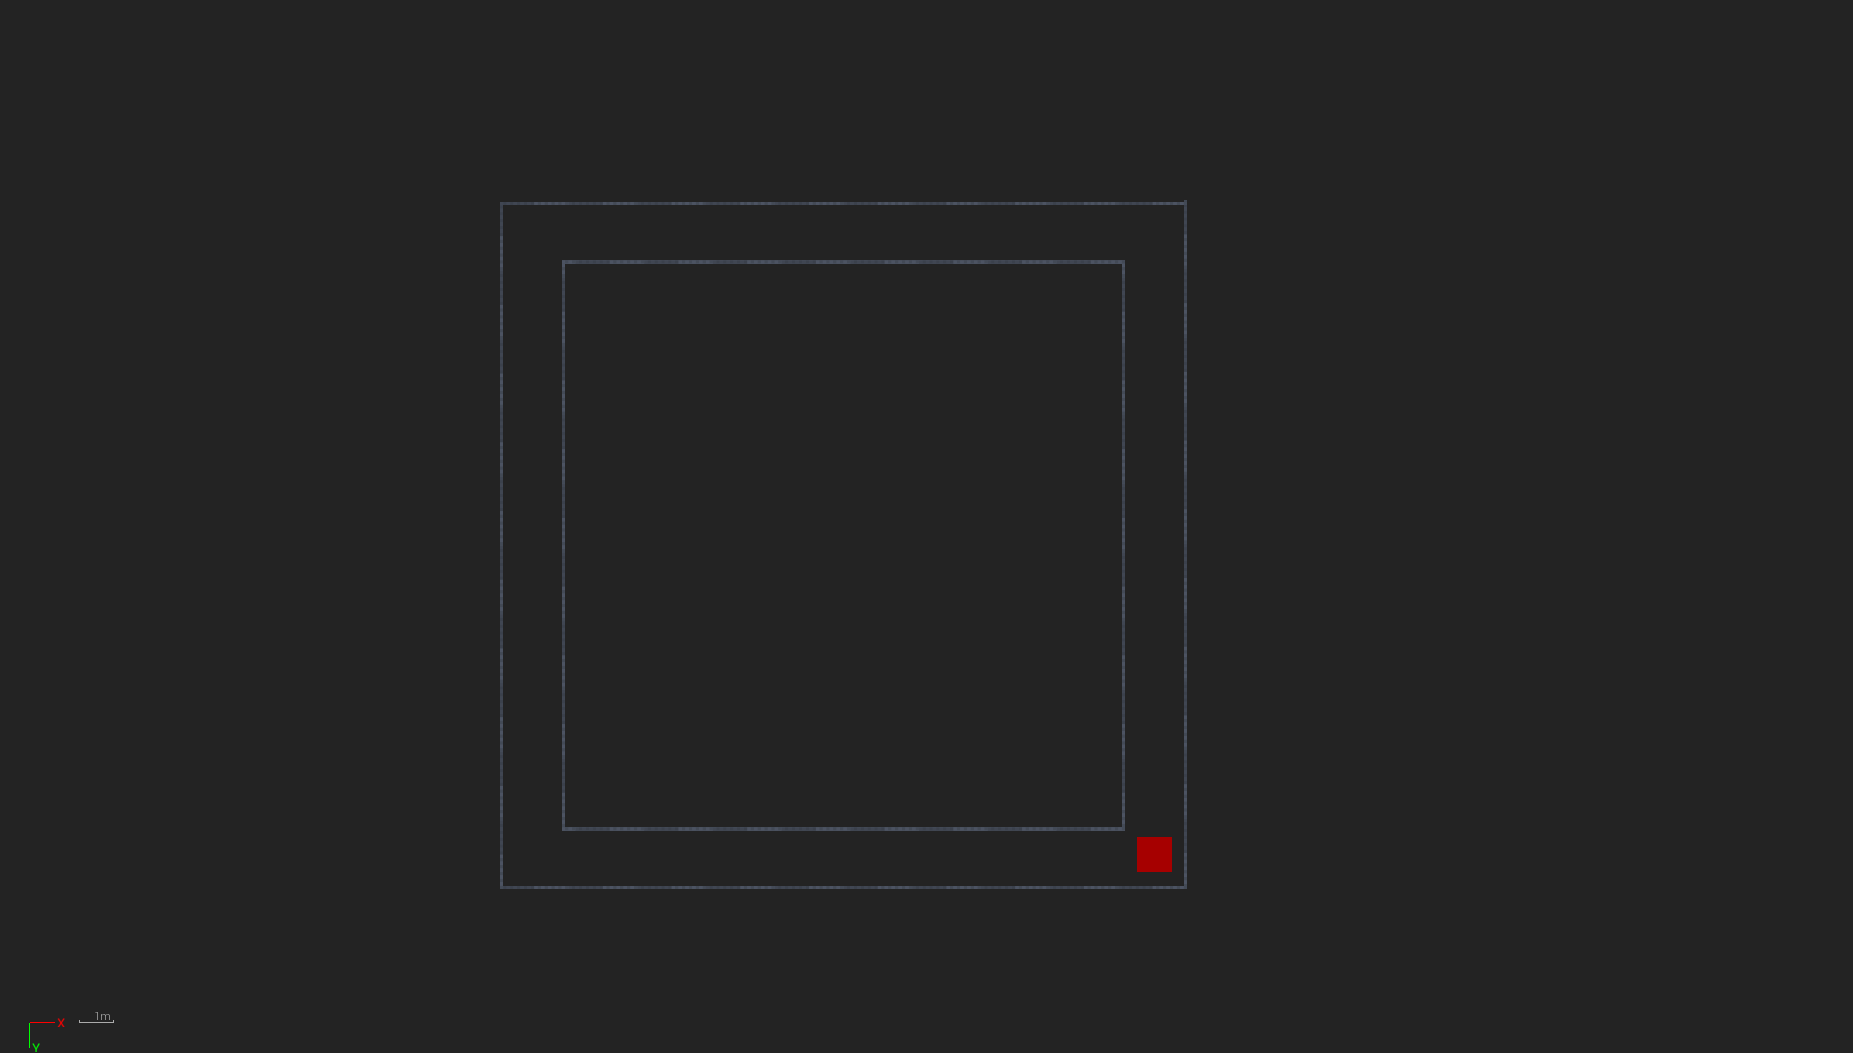
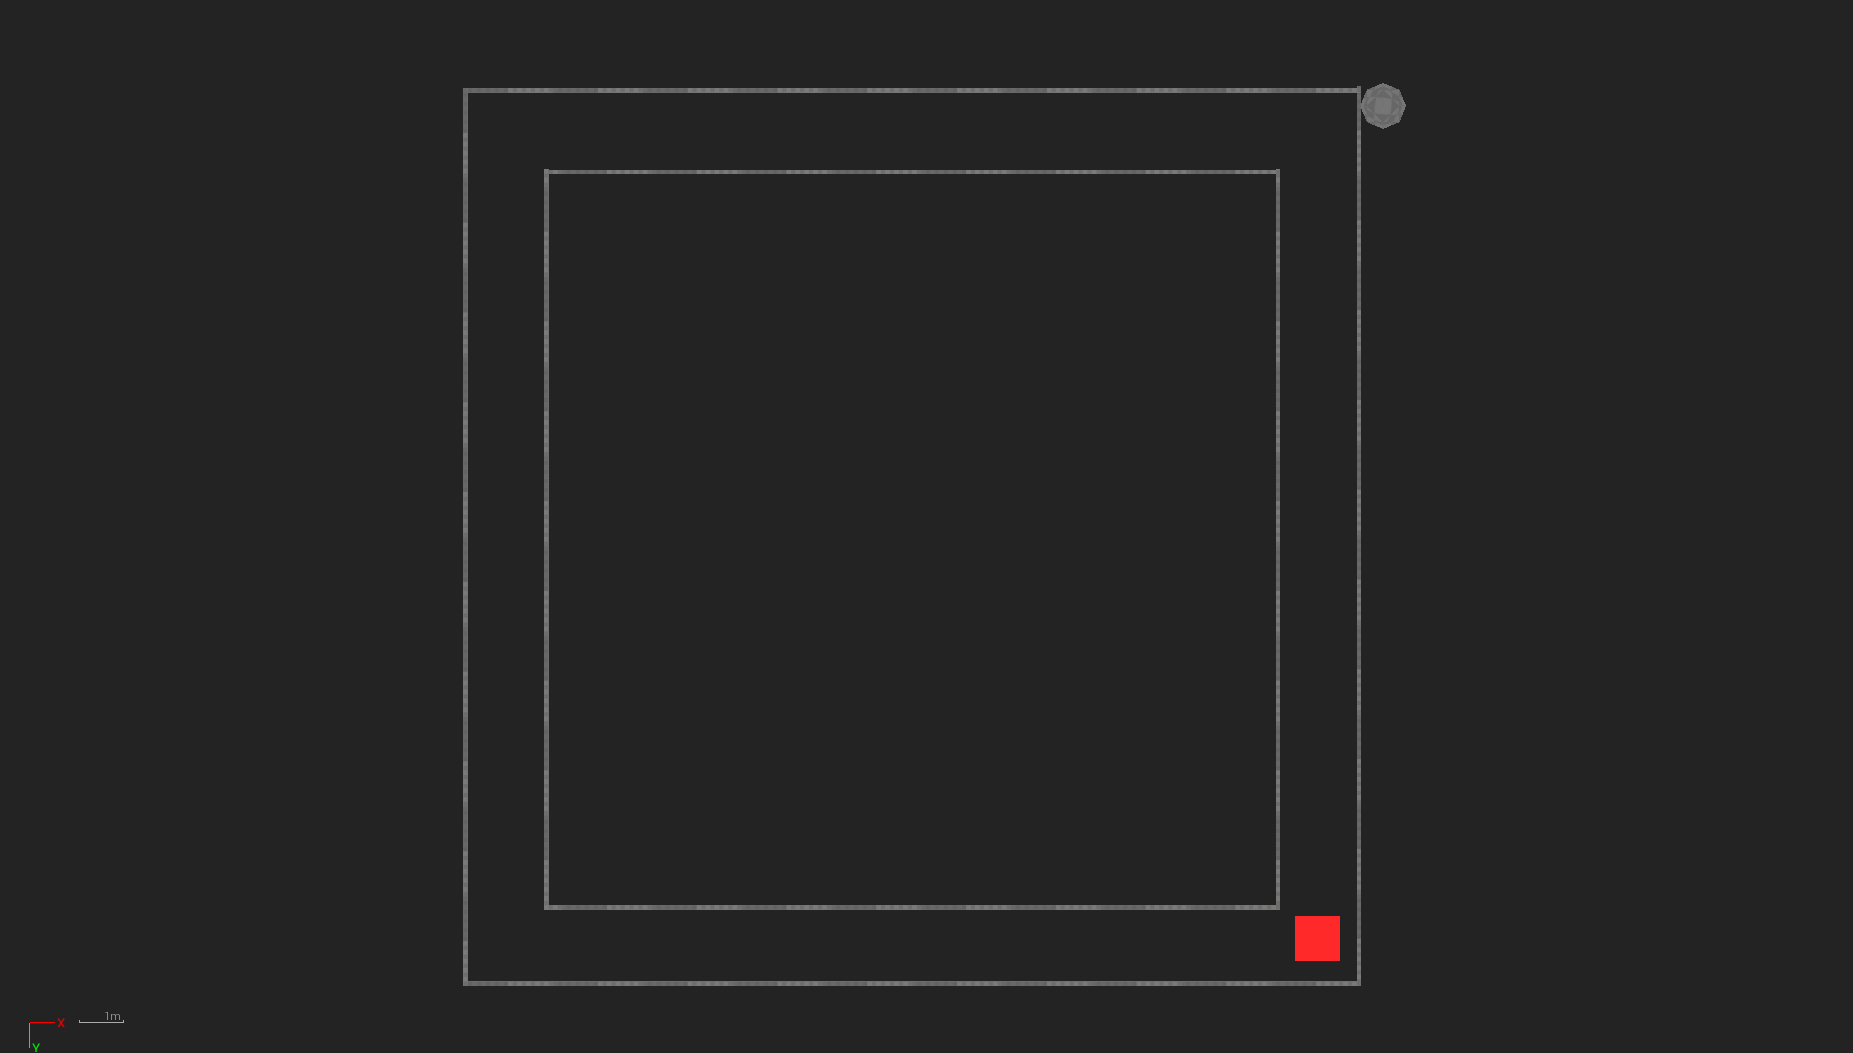
FGM agent added

Changed region(s): [[0.2461, 0.1519, 0.6767, 0.8509], [0.2461, 0.7901, 0.7383, 0.9421], [0.2461, 0.0608, 0.769, 0.1216]]

diff --git a/scripts/fgm_agent.py b/scripts/fgm_agent.py
@@ -1,0 +1,146 @@
+#!/usr/bin/env python
+import numpy as np
+import math
+import rospy
+from ackermann_msgs.msg import AckermannDriveStamped
+from sensor_msgs.msg import LaserScan
+
+def polar_to_cart(theta, r):
+    """
+    Assumes theta in radians & returns x,y
+    """
+    x = r*np.cos(theta)
+    y = r*np.sin(theta)
+    return x,y
+
+def lidar_polar_to_cart(ranges, angle_min, angle_increment):
+    """
+    Convert a lidar_dict to cartesian & return x_ranges & y_ranges
+    """
+    x_ranges = []
+    y_ranges = []
+    for i, r in enumerate(ranges):
+        if r == np.nan:
+            x_ranges.append(1000000)
+            y_ranges.append(1000000)
+        else:
+            theta = angle_min + i * angle_increment
+            x, y = polar_to_cart(theta + math.pi/2, r*100.0)
+            x_ranges.append(x)
+            y_ranges.append(y)
+    return x_ranges, y_ranges
+
+class FGM(object):
+    """
+    Follow the Gap Method that approximates the best steering angle given a local lidar scan
+    """
+    def __init__(self):
+        #Set these when you get a callback
+        self.angle_min = -1
+        self.angle_increment = -1
+        self.drive_pub = rospy.Publisher('/drive', AckermannDriveStamped, queue_size=1)
+        self.scan_sub = rospy.Subscriber('/scan', LaserScan, self.scan_callback, queue_size=1)
+
+    def refine_laserscan(self, ranges):
+        if(len(ranges) < 180):
+            diff = 180 - len(ranges)
+            last_elt = ranges[-1]
+            for i in range(diff):
+                ranges.append(last_elt)
+        ranges = np.array(ranges)
+        ranges[np.isinf(ranges)] = np.nan
+        means = np.nanmean(ranges.reshape(-1, 4), axis = 1)
+        means[means > 3] = np.nan 
+        refined_ranges = np.repeat(means, 4)
+        return refined_ranges
+
+    def find_max_gap(self, free_space_ranges):
+        num_trims = 0
+        non_zeros = np.nonzero(free_space_ranges)[0] #Find nonzero indicies
+        splits = np.split(non_zeros, np.where(np.diff(non_zeros) != 1)[0]+1)
+        max_length = max(splits, key = lambda arr: len(arr))
+        start_i = max_length[0] + num_trims
+        end_i = max_length[-1] - num_trims
+        return (start_i , end_i, 0)
+
+    def find_safest_point(self, start_i, end_i, refined_ranges):
+	#If start_i and end_i and both greater than ranges_length/2, then they're on the leftside, so the closest point would be end_i (safest would be start_i) and vice-versa
+        halflen = len(refined_ranges) //2
+        if (start_i >= halflen and end_i >= halflen):
+            edge_i =  end_i
+        elif (start_i <= halflen and end_i <= halflen):
+            edge_i =  start_i
+        elif (math.fabs(start_i - halflen) >= math.fabs(end_i - halflen)):
+            edge_i =  end_i
+        else:
+            edge_i =  start_i
+
+        #center
+        static_avoid = True
+        if(static_avoid):
+            centerlen = start_i + abs(start_i - end_i) // 2
+            centerdist = refined_ranges[centerlen]
+            refined_ranges = np.array(refined_ranges)
+            edge_i = start_i + np.argmax(refined_ranges[start_i:end_i])
+            consideration_dist = 2.0
+            x = max(centerdist - 0.3, 0)
+            if (np.isnan(x) or x > consideration_dist):
+                x=consideration_dist
+            grad = ((centerlen - edge_i) / consideration_dist)
+            const =  edge_i
+            y = grad * x + const
+            return int(y)
+        else:
+            return int(edge_i)
+
+    def scan_callback(self, data):
+        self.angle_min = data.angle_min
+        self.angle_increment = data.angle_increment
+        ranges = data.ranges
+        angle, vel =  self.do_FGM(ranges)
+
+        drive = AckermannDriveStamped()
+        drive.drive.speed = vel
+        drive.drive.steering_angle = angle
+        self.drive_pub.publish(drive)
+
+    def do_FGM(self, ranges):
+        # ranges = ranges[::-1]
+        angle_min = self.angle_min
+        angle_incr = self.angle_increment
+        #clean up & publish LIDAR SCANS so they're a bit more consistent
+        refined_ranges = self.refine_laserscan(ranges)
+        # refined_ranges = ranges
+
+        #closest point to LIDAR in refined_ranges
+        min_range = np.nanmin(refined_ranges)
+        min_idx = np.nanargmin(refined_ranges)
+
+        #Create Free Space 'Fake LaserScan'
+        free_space_ranges = np.empty_like(refined_ranges)
+        free_space_ranges[:] = min_range
+        free_space_ranges[refined_ranges < min_range + 0.9] = 0
+
+        #Find the max length gap
+        start_i , end_i, max_i = self.find_max_gap(free_space_ranges)
+
+        free_space_ranges[0:start_i] = np.nan
+        free_space_ranges[end_i + 1 :] = np.nan
+
+        #Find safest point and convert polar coordinates to x, y. 
+        safest_i = self.find_safest_point(start_i, end_i, refined_ranges)
+        safest_theta = angle_min + safest_i * angle_incr
+        centerdist = min(3.0, refined_ranges[safest_i])
+        angle = safest_theta
+
+        if (angle > 0.34):
+            angle = 0.34
+        if (angle < -0.34):
+            angle = -0.34
+
+        return 1.0 * angle, 1.0
+
+if __name__ == '__main__':
+    rospy.init_node('fgm_agent')
+    fgm_agent = FGM()
+    rospy.spin()

diff --git a/scripts/unrealmap.py b/scripts/unrealmap.py
@@ -7,10 +7,10 @@ from scipy import stats
 import pdb
 
 #SET DEBUGMODE = True to see cv2 output
-DEBUGMODE = False
+DEBUGMODE = True
 
 #FILL THIS IN
-origin_world = [1345.0, 3110.0, 100.0]
+origin_world = [1343.0, 3104.0, 131.0]
 
 filepath = "../maps/unreal_map.png"
 input_map = cv2.imread(filepath)
